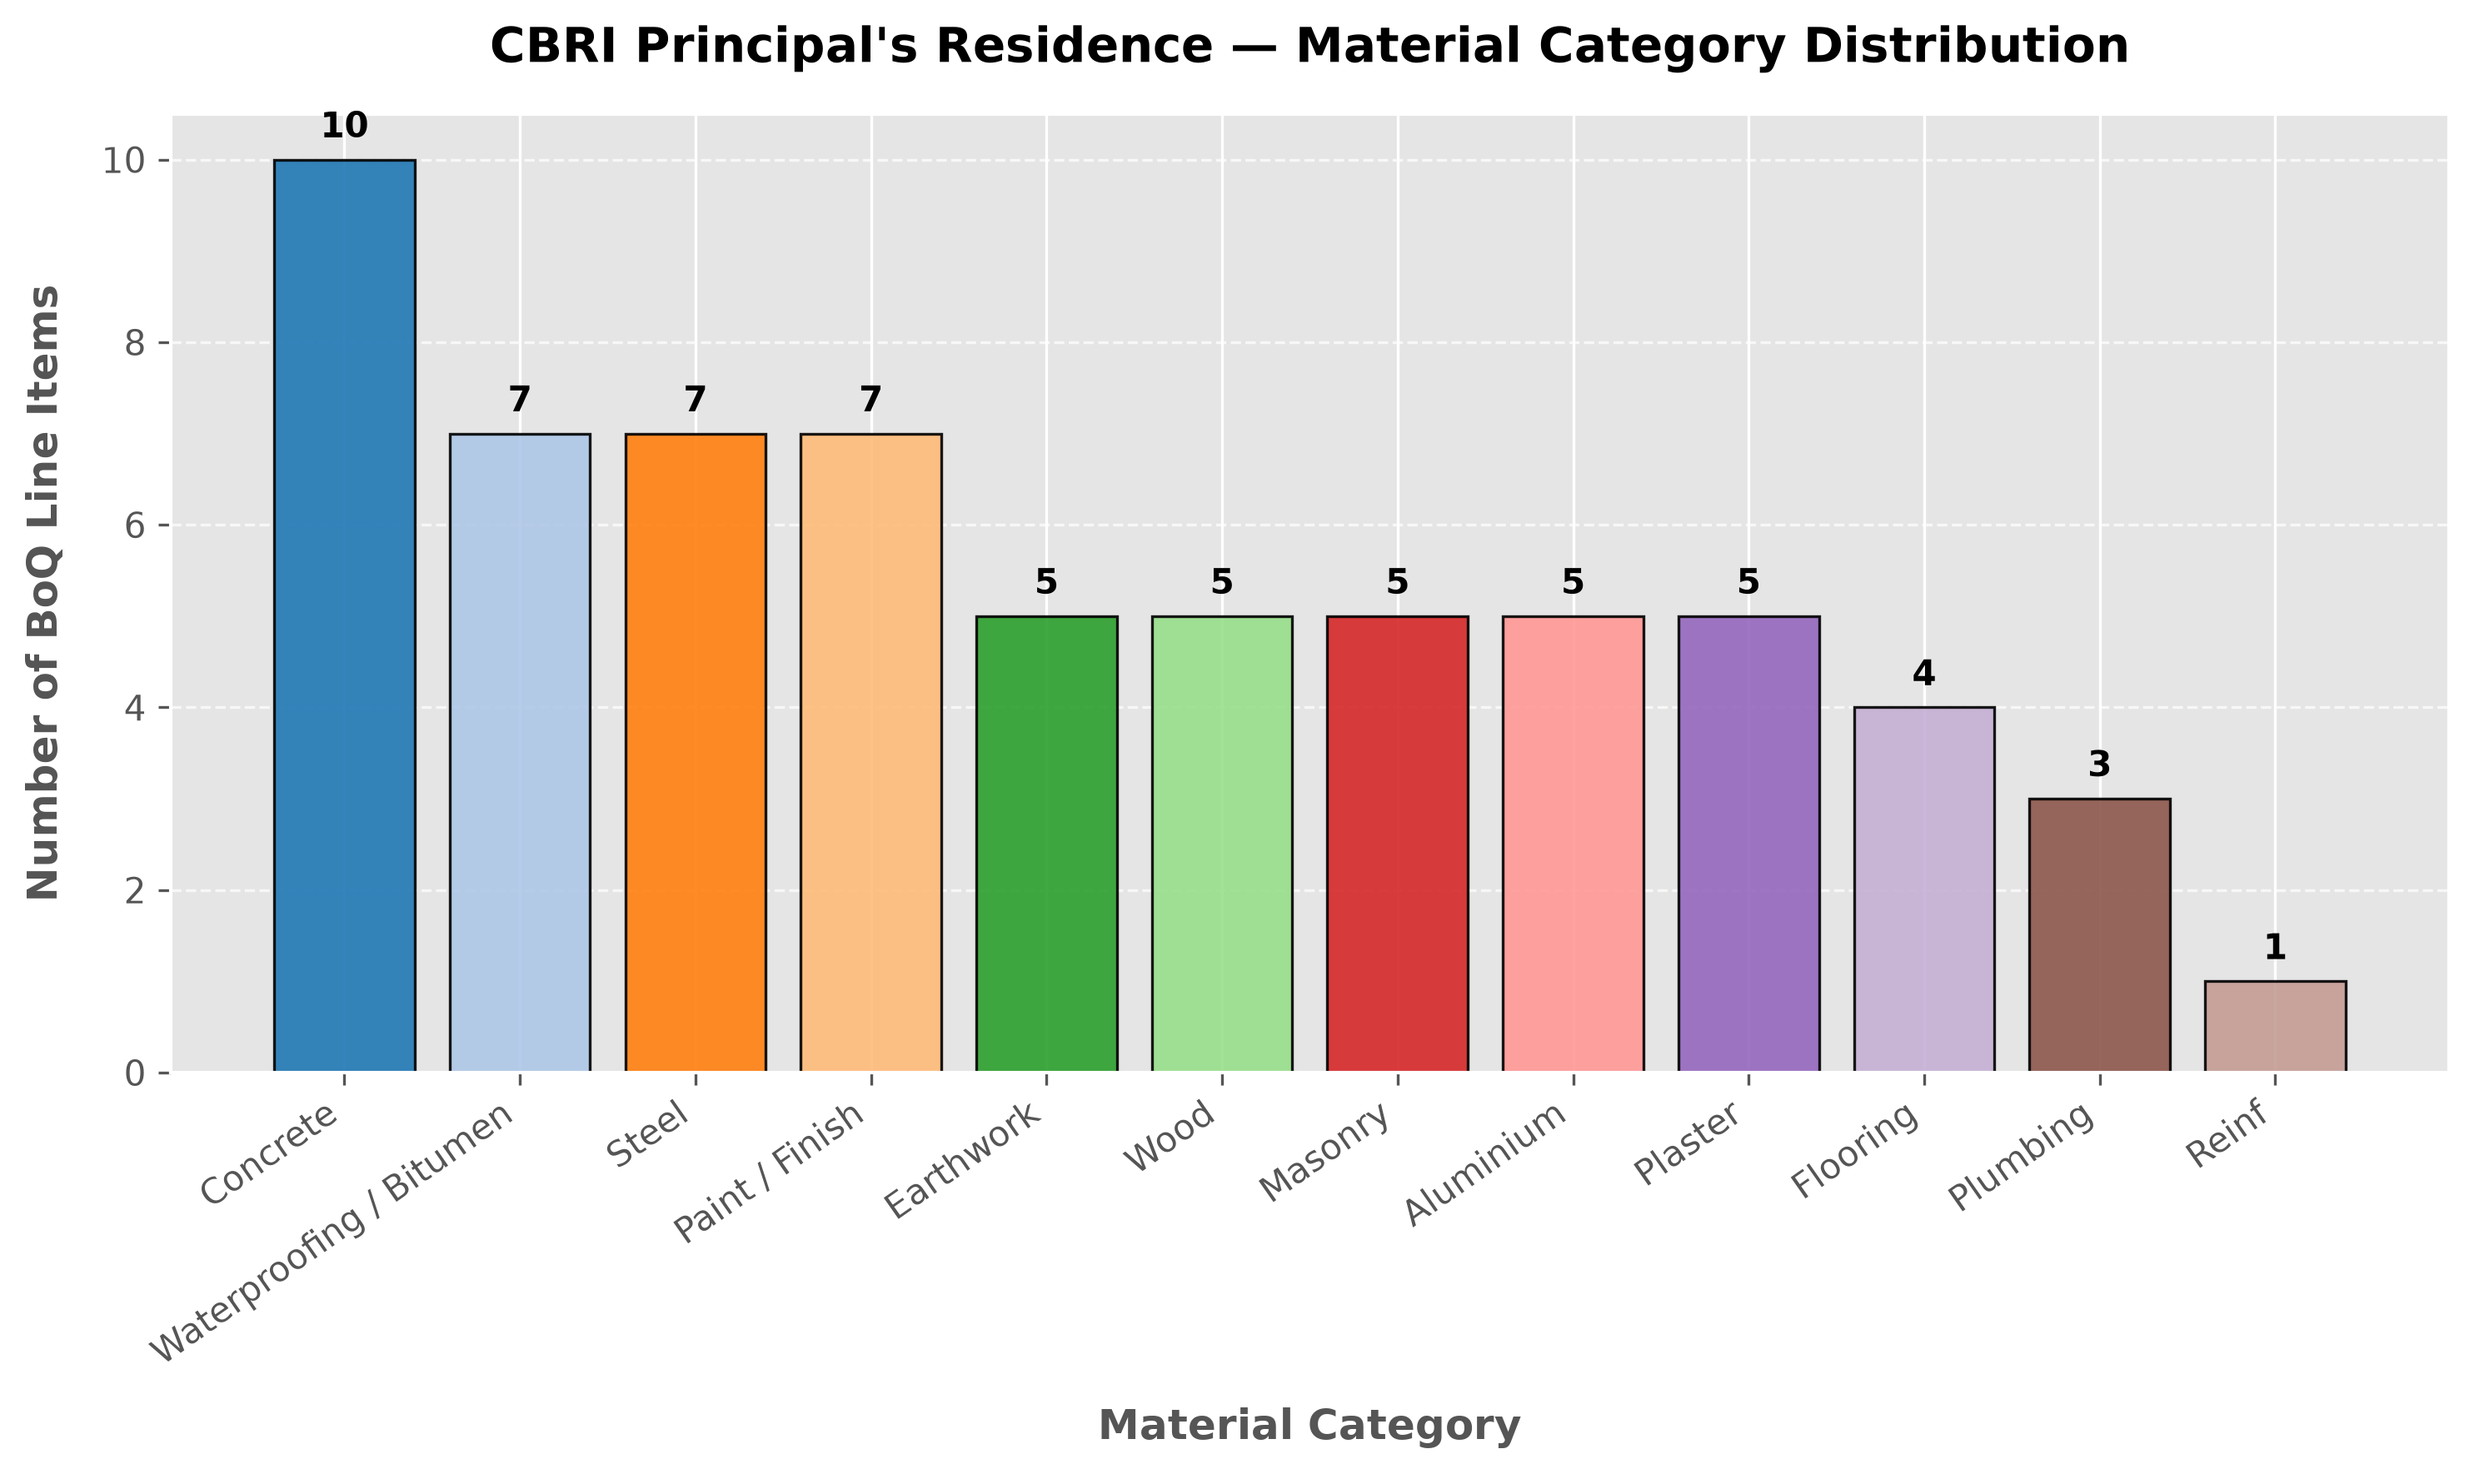
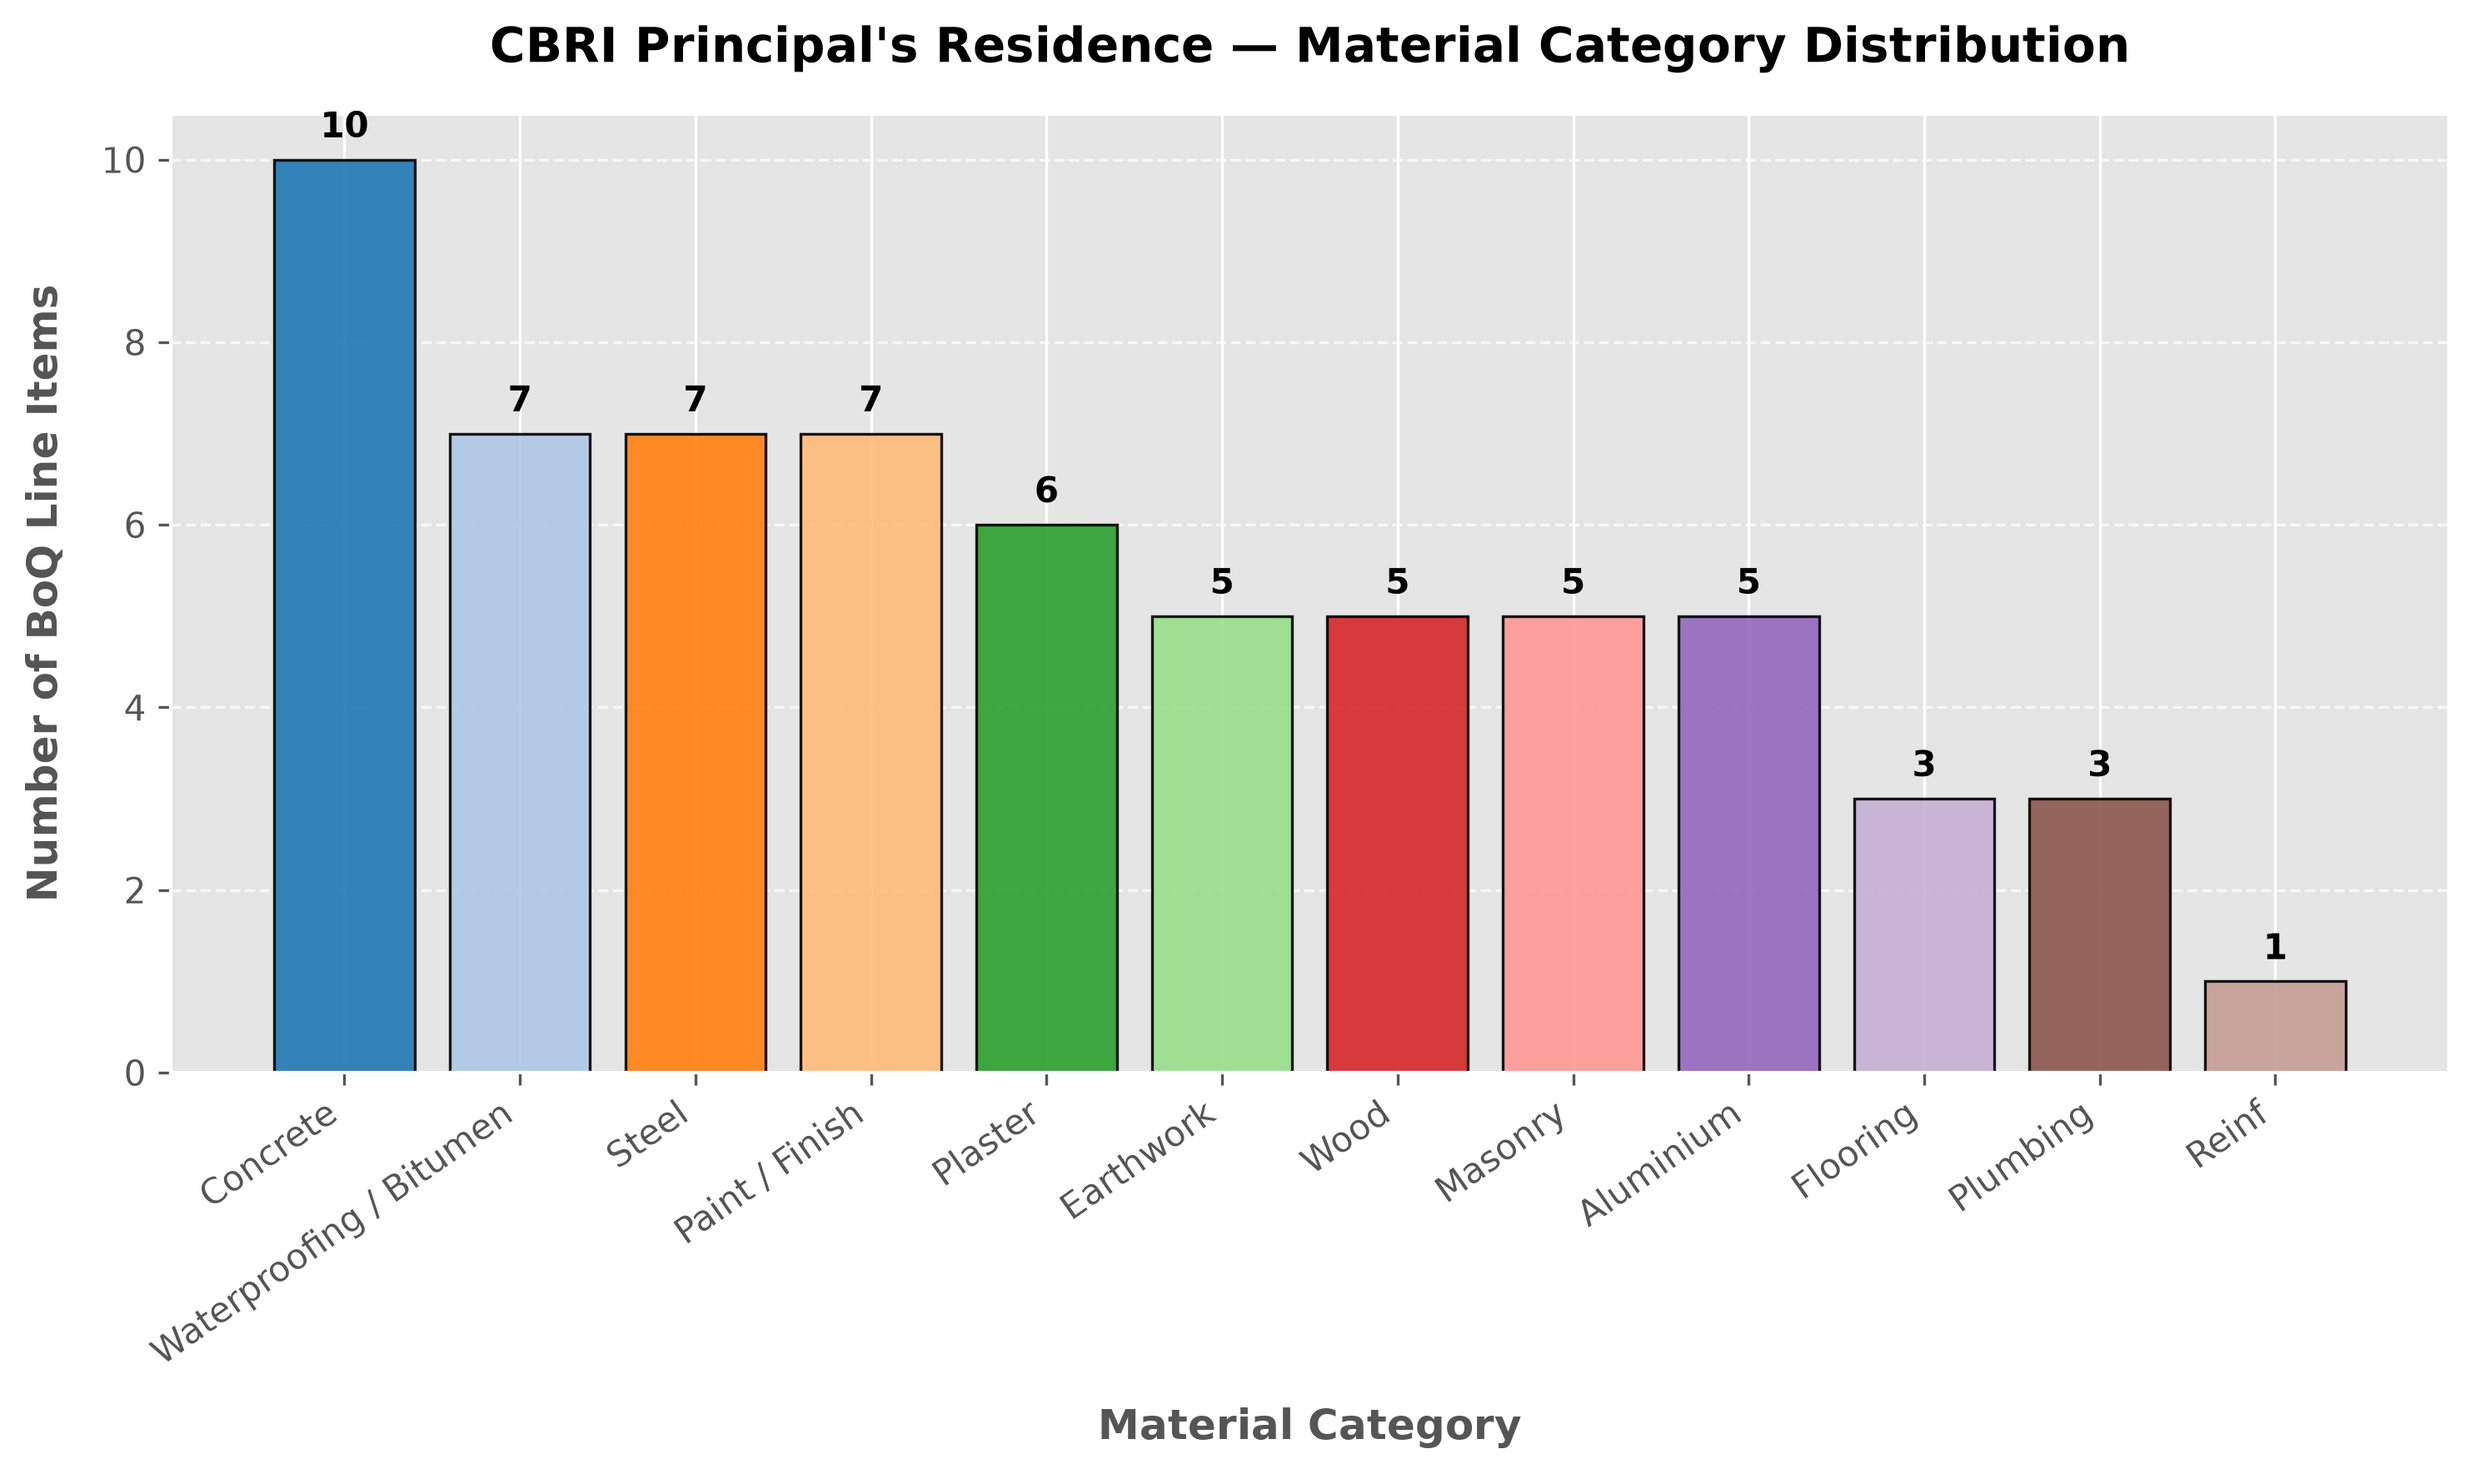
Final QA: update Item 41 category to Plaster

diff --git a/src/classify.py b/src/classify.py
@@ -164,20 +164,23 @@ def classify_boq_item(item_no: int, description: str, orig_unit: str):
     elif item_no in range(40, 44):
         floor_section = "Sub-Head VI - Flooring & Interior Finishes"
         discipline = "Architectural & Finishes"
-        material_category = "Flooring"
         if item_no == 40:
+            material_category = "Flooring"
             material_product = "Cement Concrete Flooring 40mm 1:2:4"
             all_materials_detected = "Cement, Coarse Sand, Stone Aggregate (20mm), Neat Cement"
             classification_matched = "40mm CC Flooring"
         elif item_no == 41:
+            material_category = "Plaster"
             material_product = "Cement Plaster Skirting 18mm 1:3"
             all_materials_detected = "Cement, Coarse Sand, Neat Cement"
-            classification_matched = "Cement Skirting"
+            classification_matched = "Cement Plaster Skirting Render"
         elif item_no == 42:
+            material_category = "Flooring"
             material_product = "Marble Chips Terrazzo Flooring 40mm"
             all_materials_detected = "Marble Chips, Cement, Marble Powder, Coarse Sand"
             classification_matched = "Terrazzo Marble Chips Flooring"
         elif item_no == 43:
+            material_category = "Flooring"
             material_product = "Glass Strips in Flooring Joints"
             all_materials_detected = "Sheet Glass Strips (40x6mm)"
             classification_matched = "Flooring Divider Strips"
